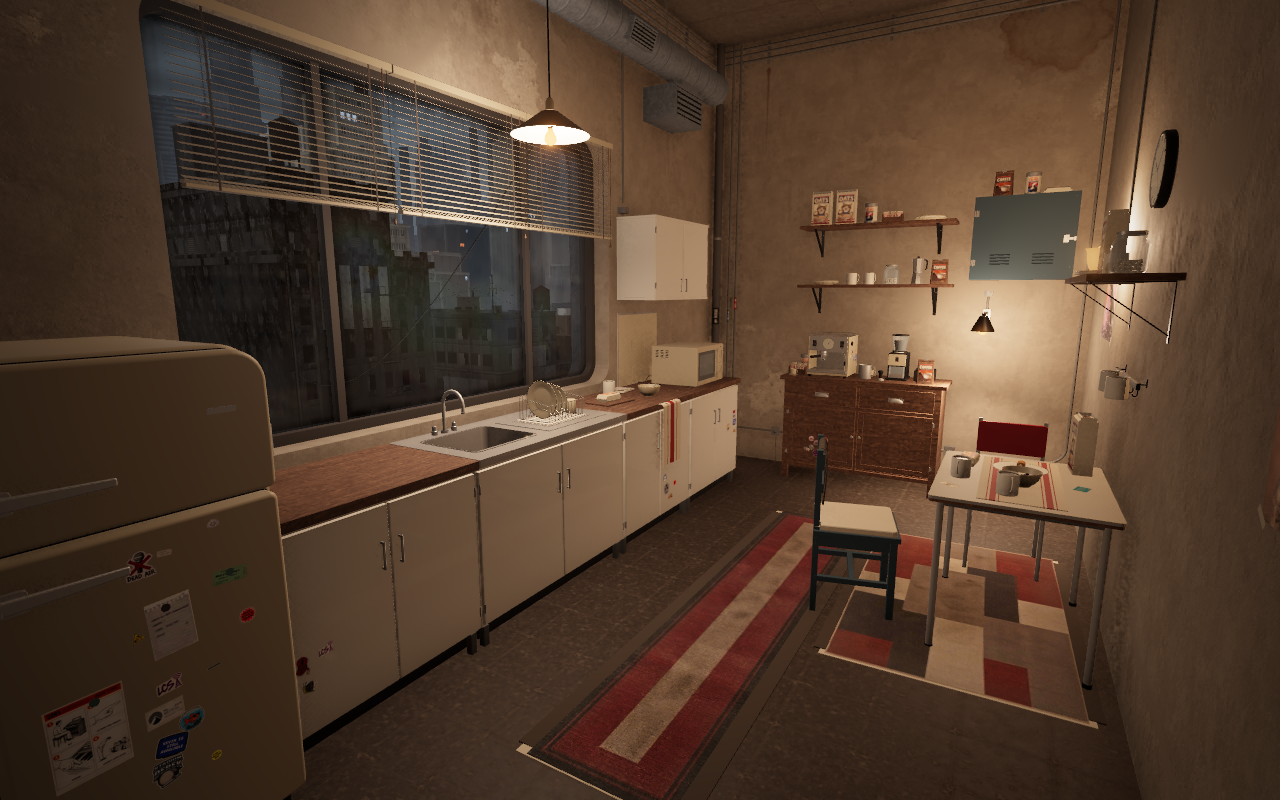
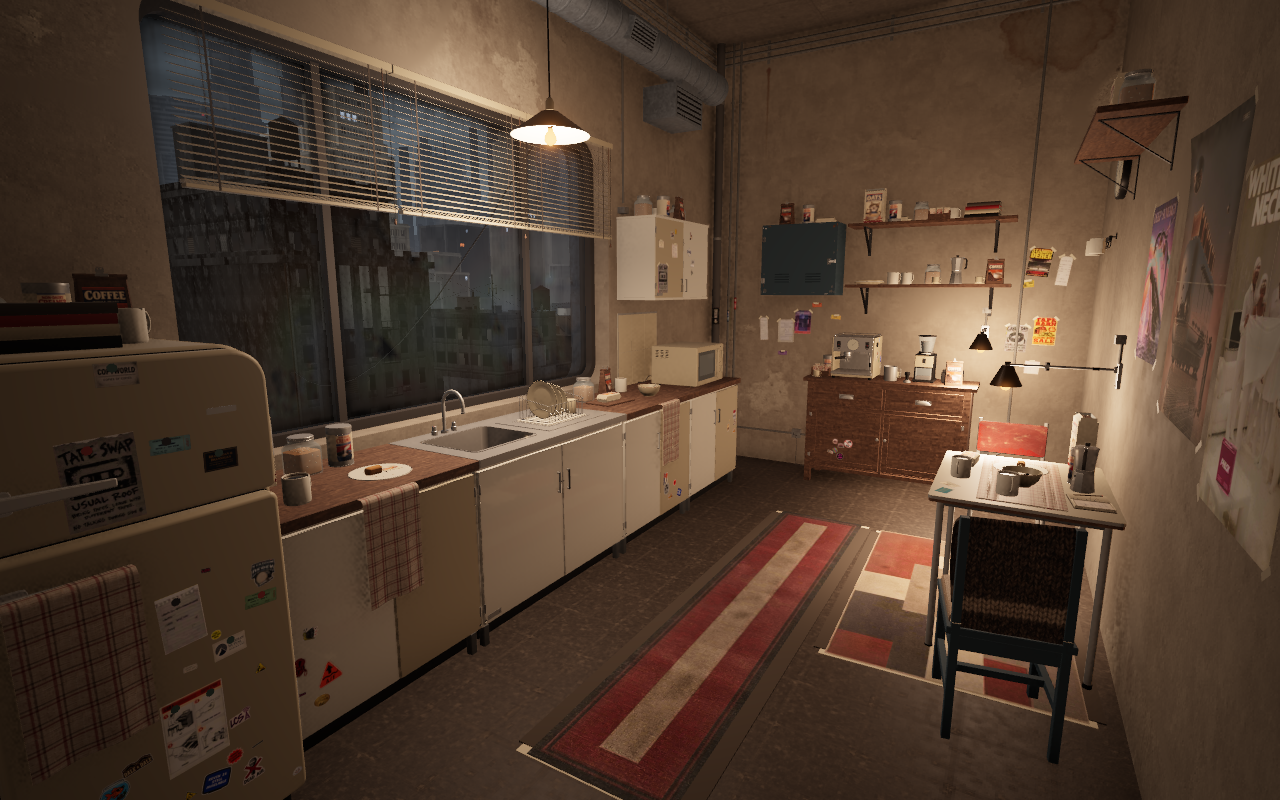
Compare approved kitchen target with reference matching progress

diff --git a/concepts/kitchen-comfort-2026-10-09/index.html b/concepts/kitchen-comfort-2026-10-09/index.html
@@ -4,7 +4,7 @@
   <meta charset="utf-8">
   <meta name="viewport" content="width=device-width, initial-scale=1">
   <meta name="theme-color" content="#201b17">
-  <title>LCS · Three kitchen comfort concepts</title>
+  <title>LCS · Matching the approved kitchen</title>
   <style>
     :root{color-scheme:dark;font-family:system-ui,sans-serif;background:#201b17;color:#eee4d7}
     body{margin:0}main{max-width:1586px;margin:auto;padding:28px 16px 48px}
@@ -26,9 +26,9 @@
   <p>Vibe collected and repaired this room herself. These concepts add places to settle in, useful rescued storage, illustrated pantry packs and traces of two girls sharing their daily life.</p>
   <p class="hint">Placement rule for every direction: furnishings find suitable walls and floor space; loose items choose compatible worktops, dining surfaces, shelves and hooks. Changing the room layout must repack them onto the available surfaces. The pictures describe the mood and useful groups, rather than fixed object coordinates.</p>
   <div class="notice">
-    <p><strong>Approved direction: #2, the coffee hangout.</strong> The blockout, furniture, fixture and pantry stages are published. All42 kitchen prop types now have finished art. Only shelf-stable food and drinks belong here: rolled oats, coffee, powdered non-dairy creamer, sugar packets and wrapped long-life cakes.</p>
-    <p class="hint">The room is assembled from rescued furniture, with padded mismatched chairs, repaired cupboards, manual blinds, a finished sink and personal paper/sticker groups. Illustrated pantry labels, empty stored cups and a coffee-stained notebook complete the pass. The shared texture atlas uses the same GPU memory, with about225KiB more compressed download.</p>
-    <p><a href="https://lcs-rooms.up.railway.app/?t=19">Open the live kitchen</a> · <a href="../../props/?item=kitchen-sink-unit">Inspect the catalog models</a></p>
+    <p><strong>Matching the approved coffee hangout.</strong> The reference below is the target. Fuller storage, larger wall art, personal papers, faded plaid and repaired furniture are now in the matching pass. The next step adds standing boards, utensils and taller reused tins.</p>
+    <p class="hint">Only shelf-stable food and drinks: oats, coffee, powdered non-dairy creamer, sugar and long-life cakes. No plants. Loose items choose compatible surfaces and reshuffle after furniture edits. The cloth shares the existing atlas, with unchanged GPU memory.</p>
+    <p><a href="https://lcs-rooms.up.railway.app/?t=19">Open the live kitchen</a> · <a href="../../props/?item=kitchen-chair-blue">Inspect the catalog models</a></p>
   </div>
   <nav aria-label="Concept directions">
     <a href="#progress">Latest 3D progress</a>
@@ -38,10 +38,12 @@
     <a href="#critic">Current-room critique</a>
   </nav>
   <section id="progress">
-    <h2>Finished 3D room · 42 prop types</h2>
-    <p>Finished cupboards, padded mismatched chairs, table, sink and drainer, blue steel locker, horizontal blinds, lights, clock, tiles and bin sit alongside illustrated oats, coffee, creamer, sugar packets, long-life snacks and personal tabletop details. Loose objects still choose suitable surfaces automatically; window fittings follow the opening.</p>
-    <figure><a href="progress-a.png"><img src="progress-a.png" alt="Latest native 3D coffee kitchen from the entrance with finished sink, furniture, rescued blue locker and manual blinds." width="1280" height="800" fetchpriority="high"></a><figcaption>3D implementation · 9 October · entrance view.</figcaption></figure>
-    <figure><a href="progress-b.png"><img src="progress-b.png" alt="Opposing native 3D kitchen view with tied blue seat cushion, draped cardigan, finished sink and partly raised horizontal blinds." width="1280" height="800" loading="lazy"></a><figcaption>3D implementation · opposing view.</figcaption></figure>
+    <h2>Reference and current 3D progress</h2>
+    <p>The room is being judged against this picture. Finished asset counts and the automatic comfort score do not measure the visual match.</p>
+    <figure><a href="approved-target.png"><img src="approved-target.png" alt="Approved makeshift coffee kitchen reference with crowded pantry shelves, plaid towels, a knitted chair drape, personal papers and warm shaded lamps." width="1280" height="800" fetchpriority="high"></a><figcaption>Approved target · generated concept art.</figcaption></figure>
+    <figure><a href="progress-a.png"><img src="progress-a.png" alt="Current native 3D kitchen matching pass with fuller storage, personal walls, plaid fridge and counter towels, repaired cupboards and a full knitted chair back." width="1280" height="800" loading="lazy"></a><figcaption>Current 3D implementation · entrance view · cloth and furniture pass.</figcaption></figure>
+    <figure><a href="progress-b.png"><img src="progress-b.png" alt="Current opposing native 3D kitchen view with illustrated pantry supplies, a shaded table lamp, plaid runner and repaired mismatched chairs." width="1280" height="800" loading="lazy"></a><figcaption>Current 3D implementation · opposing view.</figcaption></figure>
+    <p class="hint">Still being improved: taller counter silhouettes and irregular pantry groups. Native GPU pictures at noon, dusk and night have no waiting surface inventory or missing prop models.</p>
   </section>
   <section id="details">
     <h2>Everyday coffee and leftovers</h2>
@@ -49,7 +51,7 @@
     <figure><a href="final-coffee.png"><img src="final-coffee.png" alt="Finished analog espresso station with coffee grinder, real sugar packet art, powdered non-dairy creamer, espresso cups, mixing pitcher and tamper." width="1280" height="800" loading="lazy"></a><figcaption>Finished coffee station · native 3D capture.</figcaption></figure>
     <figure><a href="final-table.png"><img src="final-table.png" alt="Rescued kitchen table with padded red and blue chairs, illustrated rolled oats, used coffee mugs, snack cakes, crumbs and wrapper." width="1280" height="800" loading="lazy"></a><figcaption>Breakfast and conversation table · native 3D capture.</figcaption></figure>
     <figure><a href="final-printed-art.png"><img src="final-printed-art.png" alt="The actual six shared-atlas printed designs: illustrated oats, photographic coffee, powdered non-dairy creamer, long-life snack cakes, sugar packets and a handwritten coffee supply list." width="900" height="800" loading="lazy"></a><figcaption>Actual package/page artwork · existing2048×4096 atlas,1.6px/mm; all286 previous art tiles preserved.</figcaption></figure>
-    <p class="hint">Automatic kitchen comfort check:12/14. Visual comfort judgment:7.5/10, up from5.5/10 for the original room. The automatic score does not measure the quality of sink construction, padded seams, real package art or personal details. The pass was reviewed on the native RTX5090 at noon, evening and night in low, medium and high settings.</p>
+    <p class="hint">Automatic kitchen comfort check:12/14. The reference match is being revised visually; this automatic number does not judge clutter density, material character or composition. The smaller detail pictures here record the earlier completed-assets pass.</p>
   </section>
   <section id="breakfast">
     <h2>1 · Borrowed breakfast nook <span class="score">8.5/10</span></h2>
